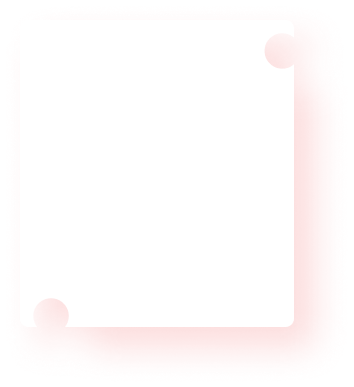
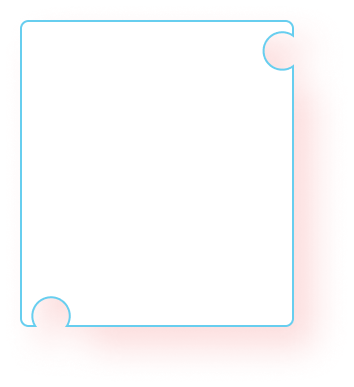
card fixes

diff --git a/src/components/sections/WhyUs.tsx b/src/components/sections/WhyUs.tsx
@@ -53,7 +53,7 @@ const WhyUsCard = ({
 
         {/* White card with adjusted positioning */}
         <div
-          className="absolute -top-4 -left-3.5 w-[205px] h-[250px] sm:-top-4 sm:-left-4 sm:w-[230px] sm:h-[270px] md:-top-5 md:-left-4 md:w-[240px] md:h-[280px] lg:-top-5 lg:-left-5 lg:w-[250px] lg:h-[290px] xl:-top-7 xl:-left-7 xl:w-[315px] xl:h-[345px] 2xl:-top-7 2xl:-left-8 2xl:w-[320px] 2xl:h-[350px]  z-10"
+          className="absolute -top-4 -left-3.5 w-[205px] h-[250px] sm:-top-4 sm:-left-4 sm:w-[230px] sm:h-[270px] md:-top-5 md:-left-4 md:w-[240px] md:h-[280px] lg:-top-5 lg:-left-5 lg:w-[250px] lg:h-[290px] xl:-top-7 xl:-left-7 xl:w-[315px] xl:h-[345px] 2xl:-top-8 2xl:-left-8 2xl:w-[320px] 2xl:h-[350px]  z-10"
           style={{
             backgroundImage: `url('${backgroundImage}')`,
             backgroundSize: "110% 110%",
@@ -61,16 +61,21 @@ const WhyUsCard = ({
           }}
         >
           {/* Card content */}
-          <div className="absolute inset-0 flex flex-col items-center justify-center text-center p-2 sm:p-3 md:p-4 lg:p-6">
+          <div className="absolute inset-0 flex flex-col items-center justify-center text-center p-2 sm:p-3 md:p-4 lg:p-6 space-y-2">
             <div className="w-4 h-4 sm:w-5 sm:h-5 md:w-6 md:h-6 lg:w-8 lg:h-8 xl:w-9 xl:h-9 mb-1 sm:mb-2 md:mb-3 lg:mb-4 relative">
-              <Image src={icon} alt={title} fill className="object-contain" />
+              <Image
+                src={icon}
+                alt={title}
+                fill
+                className="object-contain text-riskliBlue-500"
+              />
             </div>
 
-            <h3 className="text-xs sm:text-sm md:text-base lg:text-lg xl:text-xl font-semibold text-gray-900 mb-1 sm:mb-2">
+            <h3 className="text-xs sm:text-sm md:text-base lg:text-lg xl:text-xl font-semibold text-riskliBlue-500 mb-1 sm:mb-2">
               {title}
             </h3>
 
-            <p className="text-black max-w-[100px] sm:max-w-[150px] lg:max-w-xs text-[10px] sm:text-xs md:text-sm lg:text-base font-[450] leading-tight sm:leading-relaxed">
+            <p className="text-black max-w-[100px] lg:max-w-[200px] text-[10px] sm:text-xs md:text-sm lg:text-base font-[450] leading-tight sm:leading-relaxed">
               {description}
             </p>
           </div>

diff --git a/src/utils/constants.ts b/src/utils/constants.ts
@@ -56,7 +56,7 @@ export const WHY_US_DATA = [
     title: "Stay Safe From Scams",
     description: "AI gave me better confidence.",
     colorBorder: "border-purple-500",
-    backgroundImage: "/img/RiskliCard2.png",
+    backgroundImage: "/img/RiskliCard3.png",
   },
   {
     id: 3,
@@ -64,7 +64,7 @@ export const WHY_US_DATA = [
     title: "Make Informed Decisions",
     description: "It was simple, clear, and fast.",
     colorBorder: "border-yellow-500",
-    backgroundImage: "/img/RiskliCard3.png",
+    backgroundImage: "/img/RiskliCard2.png",
   },
 ];
 
